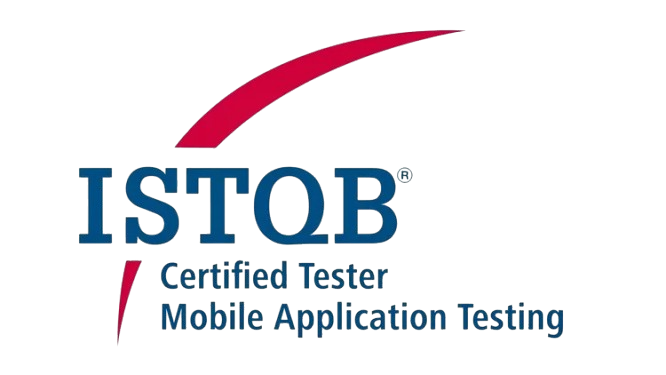
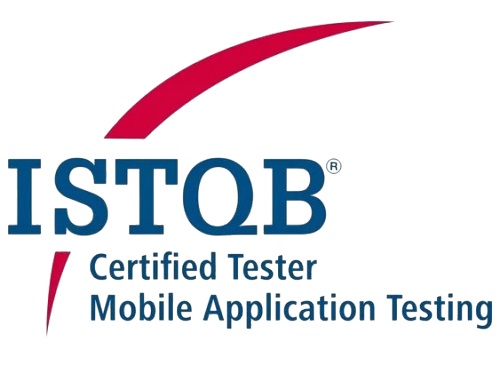
Update certificate images and UI improvements
Replaced external certificate image URLs with local paths in About page. Updated ISTQBCTFL.png and ISTQBMAT.png images. Improved grid and image styling in CertificationsSection and ExperienceSection. Made 'Open for work' ribbon in Header clickable. Added Git and GitHub icons to Projects page.

Changed region(s): [[0.0, 0.0601, 0.99, 0.9016], [0.51, 0.1503, 0.54, 0.1803]]

diff --git a/src/components/about/ExperienceSection.tsx b/src/components/about/ExperienceSection.tsx
@@ -61,16 +61,16 @@ const ExperienceSection: React.FC<ExperienceSectionProps> = ({ experiences }) =>
             key={index} 
             className="w-full"
           >
-            <div className="card-hover bg-sky-50 rounded-lg overflow-hidden shadow-md aspect-[2/1] flex items-center justify-center mb-6">
+            <div className="card-hover bg-sky-50 rounded-lg overflow-hidden shadow-md aspect-[2/1] flex items-center justify-center p-4 mb-4">
               <img 
                 src={exp.image} 
                 alt={exp.company} 
-                className="object-contain gap-2 p-4 w-full h-full"
+                className="object-contain p-4 w-full h-full"
               />
             </div>
                         
             <div className="w-full">
-              <div className="flex flex-col md:flex-row md:justify-between md:items-start mb-4">
+              <div className="flex flex-col md:flex-row md:justify-between md:items-start ">
                 <div className="w-full md:w-auto mb-2 md:mb-0">
                   <h3 className="text-2xl font-semibold">{exp.position}</h3>
                   <h4 className="text-xl text-primary">{exp.company}</h4>

diff --git a/src/components/about/CertificationsSection.tsx b/src/components/about/CertificationsSection.tsx
@@ -23,12 +23,12 @@ const CertificationsSection: React.FC<CertificationsSectionProps> = ({ certifica
         {certifications.map((cert, index) => (
           <Card key={index} className="card-hover overflow-hidden">
             <CardContent className="p-6">
-              <div className="grid grid-cols-1 md:grid-cols-[1fr_2fr] gap-6 items-center">
+              <div className="grid grid-cols-1 md:grid-cols-[2fr_2fr] gap-6 items-center">
                 <div className="card-hover bg-sky-50 rounded-lg overflow-hidden aspect-[1.5/1] flex items-center justify-center p-4">
                   <img 
                     src={cert.image} 
                     alt={cert.certificateName} 
-                    className="object-contain w-full h-full"
+                    className="object-contain w-full"
                     onError={(e) => {
                       e.currentTarget.src = 'https://via.placeholder.com/300x200?text=Certificate';
                     }}

diff --git a/src/components/layout/Header.tsx b/src/components/layout/Header.tsx
@@ -124,7 +124,8 @@ const Header: React.FC = () => {
       
       {/* Work Status Ribbon */}
       <div className="relative">
-        <div className="group absolute left-0 top-0 z-10">
+        <a href="#/contact" className="group absolute left-0 top-0 z-10">
+        <div  className="group absolute left-0 top-0 z-10">
           <div className="flex items-center transition-transform duration-300 ease-out transform -translate-x-[calc(100%-24px)] group-hover:translate-x-0">
             <div className="bg-green-500 text-white px-4 py-2 text-sm font-medium whitespace-nowrap">
               <span>🟢 Open for work - Full time</span>
@@ -133,6 +134,7 @@ const Header: React.FC = () => {
             <div className="w-0 h-0 border-l-[12px] border-l-green-500 border-t-[20px] border-t-transparent border-b-[20px] border-b-transparent"></div>
           </div>
         </div>
+        </a>
       </div>
     </header>
   );

diff --git a/src/pages/Projects.tsx b/src/pages/Projects.tsx
@@ -83,6 +83,9 @@ const Projects: React.FC = () => {
     'https://raw.githubusercontent.com/MahmoudFawzyAOE2/mft1998-portfolio/refs/heads/main/images/TestNG.png',
     'https://avatars.githubusercontent.com/u/5879127?s=280&v=4',
     'https://user-images.githubusercontent.com/25181517/183914128-3fc88b4a-4ac1-40e6-9443-9a30182379b7.png',
+    'https://avatars.githubusercontent.com/u/44036562?s=280&v=4',
+    'https://raw.githubusercontent.com/marwin1991/profile-technology-icons/refs/heads/main/icons/github.png',
+    'https://raw.githubusercontent.com/marwin1991/profile-technology-icons/refs/heads/main/icons/git.png',
     'https://raw.githubusercontent.com/marwin1991/profile-technology-icons/refs/heads/main/icons/intellij.png',
     'https://raw.githubusercontent.com/marwin1991/profile-technology-icons/refs/heads/main/icons/jira.png',
   ];

diff --git a/src/pages/About.tsx b/src/pages/About.tsx
@@ -35,13 +35,13 @@ const About: React.FC = () => {
       certificateName: 'ISTQB CTFL v4',
       date: 'January 2024',
       credentialId: '240117071',
-      image: 'https://raw.githubusercontent.com/MahmoudFawzyAOE2/mft1998-portfolio/refs/heads/main/images/ISTQBCTFL.png',
+      image: 'images/ISTQBCTFL.png',
     },
     {
       certificateName: 'ISTQB MAT',
       date: 'August 2025',
       credentialId: '250806034',
-      image: 'https://raw.githubusercontent.com/MahmoudFawzyAOE2/mft1998-portfolio/refs/heads/main/images/ISTQBMAT.png',
+      image: 'images/ISTQBMAT.png',
     }
 
   ];
